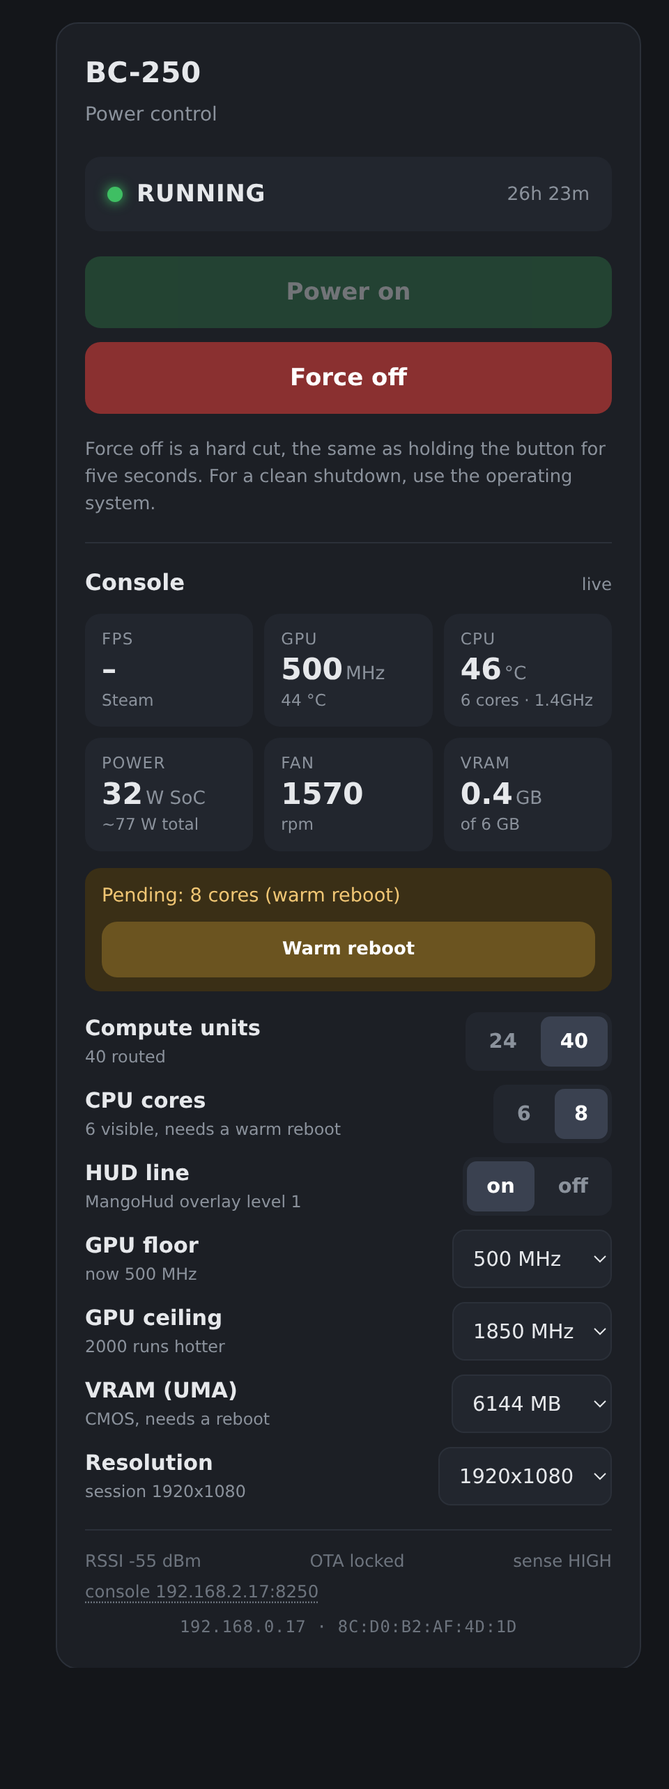
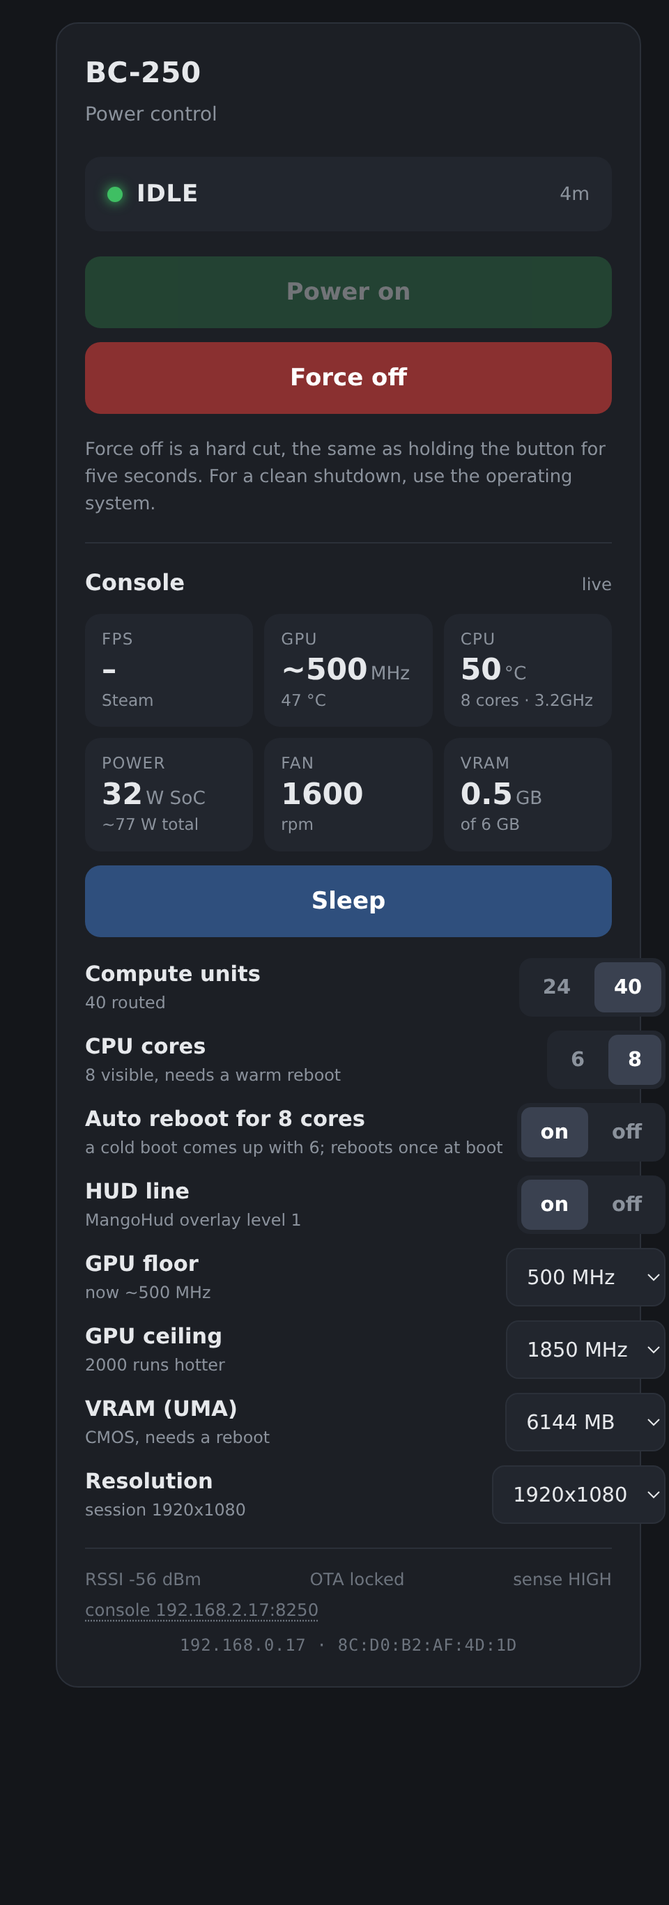
Sleep/wake from the ESP32 page, RUNNING/IDLE/SLEEP status, auto warm reboot for 8 cores
bc250-tune 1.1.0: CORES_AUTO_REBOOT (set cores-auto-reboot on|off). The SMU core mask does not
survive a power-off, so a cold boot with CORES=8 always came up with 6 cores until someone warm-
rebooted. With the option on, apply --boot does that reboot itself, once: a persistent stamp in
/var/lib/bc250-tune blocks a second attempt for 5 minutes, so a board that never enumerates the
cores cannot loop. Reported in status --json as cores.auto_reboot; toggle in the Decky plugin.

Sleep plugin: root-only control socket /run/bc250-sleep/ctl.sock (one line: sleep|wake|status,
one JSON line back). bc250-api 1.1.0 adds POST /api/sleep and /api/wake on top of it, plus
game_running (the reaper SteamLaunch process, independent of gamescope focus) and sleep.since.

ESP32 page: once the console answers, the status line becomes RUNNING (game running), IDLE or
SLEEP (blue dot) instead of the ESP32's bare RUNNING; a Sleep/Wake button under the tiles drives
the fake sleep; the auto-reboot switch joins the tune options. Docs and screenshot updated.

diff --git a/decky-bc250-tune/decky-plugin/dist/index.js b/decky-bc250-tune/decky-plugin/dist/index.js
@@ -33,12 +33,12 @@ var DefaultContext = {
 var IconContext = SP_REACT.createContext && /*#__PURE__*/SP_REACT.createContext(DefaultContext);
 
 var _excluded = ["attr", "size", "title"];
-function _objectWithoutProperties(source, excluded) { if (source == null) return {}; var target = _objectWithoutPropertiesLoose(source, excluded); var key, i; if (Object.getOwnPropertySymbols) { var sourceSymbolKeys = Object.getOwnPropertySymbols(source); for (i = 0; i < sourceSymbolKeys.length; i++) { key = sourceSymbolKeys[i]; if (excluded.indexOf(key) >= 0) continue; if (!Object.prototype.propertyIsEnumerable.call(source, key)) continue; target[key] = source[key]; } } return target; }
-function _objectWithoutPropertiesLoose(source, excluded) { if (source == null) return {}; var target = {}; for (var key in source) { if (Object.prototype.hasOwnProperty.call(source, key)) { if (excluded.indexOf(key) >= 0) continue; target[key] = source[key]; } } return target; }
-function _extends() { _extends = Object.assign ? Object.assign.bind() : function (target) { for (var i = 1; i < arguments.length; i++) { var source = arguments[i]; for (var key in source) { if (Object.prototype.hasOwnProperty.call(source, key)) { target[key] = source[key]; } } } return target; }; return _extends.apply(this, arguments); }
+function _objectWithoutProperties(e, t) { if (null == e) return {}; var o, r, i = _objectWithoutPropertiesLoose(e, t); if (Object.getOwnPropertySymbols) { var n = Object.getOwnPropertySymbols(e); for (r = 0; r < n.length; r++) o = n[r], -1 === t.indexOf(o) && {}.propertyIsEnumerable.call(e, o) && (i[o] = e[o]); } return i; }
+function _objectWithoutPropertiesLoose(r, e) { if (null == r) return {}; var t = {}; for (var n in r) if ({}.hasOwnProperty.call(r, n)) { if (-1 !== e.indexOf(n)) continue; t[n] = r[n]; } return t; }
+function _extends() { return _extends = Object.assign ? Object.assign.bind() : function (n) { for (var e = 1; e < arguments.length; e++) { var t = arguments[e]; for (var r in t) ({}).hasOwnProperty.call(t, r) && (n[r] = t[r]); } return n; }, _extends.apply(null, arguments); }
 function ownKeys(e, r) { var t = Object.keys(e); if (Object.getOwnPropertySymbols) { var o = Object.getOwnPropertySymbols(e); r && (o = o.filter(function (r) { return Object.getOwnPropertyDescriptor(e, r).enumerable; })), t.push.apply(t, o); } return t; }
 function _objectSpread(e) { for (var r = 1; r < arguments.length; r++) { var t = null != arguments[r] ? arguments[r] : {}; r % 2 ? ownKeys(Object(t), true).forEach(function (r) { _defineProperty(e, r, t[r]); }) : Object.getOwnPropertyDescriptors ? Object.defineProperties(e, Object.getOwnPropertyDescriptors(t)) : ownKeys(Object(t)).forEach(function (r) { Object.defineProperty(e, r, Object.getOwnPropertyDescriptor(t, r)); }); } return e; }
-function _defineProperty(obj, key, value) { key = _toPropertyKey(key); if (key in obj) { Object.defineProperty(obj, key, { value: value, enumerable: true, configurable: true, writable: true }); } else { obj[key] = value; } return obj; }
+function _defineProperty(e, r, t) { return (r = _toPropertyKey(r)) in e ? Object.defineProperty(e, r, { value: t, enumerable: true, configurable: true, writable: true }) : e[r] = t, e; }
 function _toPropertyKey(t) { var i = _toPrimitive(t, "string"); return "symbol" == typeof i ? i : i + ""; }
 function _toPrimitive(t, r) { if ("object" != typeof t || !t) return t; var e = t[Symbol.toPrimitive]; if (void 0 !== e) { var i = e.call(t, r); if ("object" != typeof i) return i; throw new TypeError("@@toPrimitive must return a primitive value."); } return ("string" === r ? String : Number)(t); }
 function Tree2Element(tree) {
@@ -53,11 +53,9 @@ function GenIcon(data) {
 }
 function IconBase(props) {
   var elem = conf => {
-    var {
-        attr,
-        size,
-        title
-      } = props,
+    var attr = props.attr,
+      size = props.size,
+      title = props.title,
       svgProps = _objectWithoutProperties(props, _excluded);
     var computedSize = size || conf.size || "1em";
     var className;
@@ -150,7 +148,7 @@ function Content() {
         pending.push("restart gaming session (resolution)");
     if (st.pending.cold_boot)
         pending.push("cold boot (power off) to return to 6 cores");
-    return (SP_JSX.jsxs(SP_JSX.Fragment, { children: [SP_JSX.jsxs(DFL.PanelSection, { title: "Live", children: [SP_JSX.jsx(DFL.PanelSectionRow, { children: SP_JSX.jsxs(DFL.Field, { label: "GPU", focusable: true, children: [st.gpu.cur_mhz_estimated ? "~" : "", st.gpu.cur_mhz, " MHz \u00B7 ", st.gpu.temp, "\u00B0C \u00B7 ", st.cu.live, " CU"] }) }), SP_JSX.jsx(DFL.PanelSectionRow, { children: SP_JSX.jsxs(DFL.Field, { label: "CPU", focusable: true, children: [st.cores.visible, " cores \u00B7 ", st.power.cpu_temp, "\u00B0C"] }) }), SP_JSX.jsx(DFL.PanelSectionRow, { children: SP_JSX.jsxs(DFL.Field, { label: "Power", focusable: true, children: ["SoC ", st.power.soc_w, " W \u00B7 total ~", st.power.total_w, " W"] }) }), SP_JSX.jsx(DFL.PanelSectionRow, { children: SP_JSX.jsxs(DFL.Field, { label: "VRAM", focusable: true, children: [st.uma.live_mb, " MB", st.res.session ? ` · ${st.res.session}` : ""] }) }), pending.map((p) => (SP_JSX.jsx(DFL.PanelSectionRow, { children: SP_JSX.jsx(DFL.Field, { label: "Pending", focusable: true, children: p }) }, p)))] }), SP_JSX.jsxs(DFL.PanelSection, { title: "GPU", children: [SP_JSX.jsx(DFL.PanelSectionRow, { children: SP_JSX.jsx(DFL.ToggleField, { label: "40 compute units", description: "Route all WGPs (live). +~30 W, ~+5 % in games, 1.6x compute", checked: st.cu.config === 40, disabled: busy, onChange: (v) => apply("cu", v ? "40" : "24") }) }), SP_JSX.jsx(DFL.PanelSectionRow, { children: SP_JSX.jsx(DFL.DropdownItem, { label: "Max clock", description: "Governor ceiling (live)", rgOptions: [opt(1500, "1500 MHz"), opt(1700, "1700 MHz"), opt(1850, "1850 MHz (default)"), opt(2000, "2000 MHz (hot)")], selectedOption: st.gpu.config_max, disabled: busy, onChange: (o) => apply("gpu-max", String(o.data)) }) }), SP_JSX.jsx(DFL.PanelSectionRow, { children: SP_JSX.jsx(DFL.DropdownItem, { label: "Idle clock", description: "Governor floor (live). 500 saves ~10 W at idle", rgOptions: [opt(500, "500 MHz"), opt(1000, "1000 MHz")], selectedOption: st.gpu.config_min, disabled: busy, onChange: (o) => apply("gpu-min", String(o.data)) }) })] }), SP_JSX.jsxs(DFL.PanelSection, { title: "CPU", children: [SP_JSX.jsx(DFL.PanelSectionRow, { children: SP_JSX.jsx(DFL.ToggleField, { label: "8 cores", description: "SMU core unlock. Needs a warm reboot; a cold boot (power off) reverts to 6", checked: st.cores.config === 8, disabled: busy, onChange: (v) => apply("cores", v ? "8" : "6") }) }), SP_JSX.jsx(DFL.PanelSectionRow, { children: SP_JSX.jsx(DFL.ButtonItem, { layout: "below", disabled: busy, onClick: () => runAction("reboot", warmReboot), children: "Warm reboot now" }) })] }), SP_JSX.jsx(DFL.PanelSection, { title: "Memory", children: SP_JSX.jsx(DFL.PanelSectionRow, { children: SP_JSX.jsx(DFL.DropdownItem, { label: "VRAM (UMA split)", description: "Written to CMOS, applies at next reboot. Rest of the 16 GB is system RAM", rgOptions: [512, 1024, 2048, 3072, 4096, 6144, 8192, 10240, 12288].map((m) => opt(m, `${m} MB`)), selectedOption: st.uma.config, disabled: busy, onChange: (o) => apply("uma", String(o.data)) }) }) }), SP_JSX.jsxs(DFL.PanelSection, { title: "Display & HUD", children: [SP_JSX.jsx(DFL.PanelSectionRow, { children: SP_JSX.jsx(DFL.ToggleField, { label: "Custom HUD line", description: "Installs the one-line MangoHud layout as Performance Overlay level 1", checked: st.hud.config === "on", disabled: busy, onChange: (v) => apply("hud", v ? "on" : "off") }) }), SP_JSX.jsx(DFL.PanelSectionRow, { children: SP_JSX.jsx(DFL.DropdownItem, { label: "Gaming Mode resolution", description: "Applies when the gaming session restarts", rgOptions: [opt("1920x1080", "1080p"), opt("2560x1440", "1440p"), opt("3840x2160", "4K"), opt("native", "native")], selectedOption: st.res.config, disabled: busy, onChange: (o) => apply("res", String(o.data)) }) }), SP_JSX.jsx(DFL.PanelSectionRow, { children: SP_JSX.jsx(DFL.ButtonItem, { layout: "below", disabled: busy, onClick: () => runAction("session restart", restartSession), children: "Restart gaming session (closes game)" }) })] })] }));
+    return (SP_JSX.jsxs(SP_JSX.Fragment, { children: [SP_JSX.jsxs(DFL.PanelSection, { title: "Live", children: [SP_JSX.jsx(DFL.PanelSectionRow, { children: SP_JSX.jsxs(DFL.Field, { label: "GPU", focusable: true, children: [st.gpu.cur_mhz_estimated ? "~" : "", st.gpu.cur_mhz, " MHz \u00B7 ", st.gpu.temp, "\u00B0C \u00B7 ", st.cu.live, " CU"] }) }), SP_JSX.jsx(DFL.PanelSectionRow, { children: SP_JSX.jsxs(DFL.Field, { label: "CPU", focusable: true, children: [st.cores.visible, " cores \u00B7 ", st.power.cpu_temp, "\u00B0C"] }) }), SP_JSX.jsx(DFL.PanelSectionRow, { children: SP_JSX.jsxs(DFL.Field, { label: "Power", focusable: true, children: ["SoC ", st.power.soc_w, " W \u00B7 total ~", st.power.total_w, " W"] }) }), SP_JSX.jsx(DFL.PanelSectionRow, { children: SP_JSX.jsxs(DFL.Field, { label: "VRAM", focusable: true, children: [st.uma.live_mb, " MB", st.res.session ? ` · ${st.res.session}` : ""] }) }), pending.map((p) => (SP_JSX.jsx(DFL.PanelSectionRow, { children: SP_JSX.jsx(DFL.Field, { label: "Pending", focusable: true, children: p }) }, p)))] }), SP_JSX.jsxs(DFL.PanelSection, { title: "GPU", children: [SP_JSX.jsx(DFL.PanelSectionRow, { children: SP_JSX.jsx(DFL.ToggleField, { label: "40 compute units", description: "Route all WGPs (live). +~30 W, ~+5 % in games, 1.6x compute", checked: st.cu.config === 40, disabled: busy, onChange: (v) => apply("cu", v ? "40" : "24") }) }), SP_JSX.jsx(DFL.PanelSectionRow, { children: SP_JSX.jsx(DFL.DropdownItem, { label: "Max clock", description: "Governor ceiling (live)", rgOptions: [opt(1500, "1500 MHz"), opt(1700, "1700 MHz"), opt(1850, "1850 MHz (default)"), opt(2000, "2000 MHz (hot)")], selectedOption: st.gpu.config_max, disabled: busy, onChange: (o) => apply("gpu-max", String(o.data)) }) }), SP_JSX.jsx(DFL.PanelSectionRow, { children: SP_JSX.jsx(DFL.DropdownItem, { label: "Idle clock", description: "Governor floor (live). 500 saves ~10 W at idle", rgOptions: [opt(500, "500 MHz"), opt(1000, "1000 MHz")], selectedOption: st.gpu.config_min, disabled: busy, onChange: (o) => apply("gpu-min", String(o.data)) }) })] }), SP_JSX.jsxs(DFL.PanelSection, { title: "CPU", children: [SP_JSX.jsx(DFL.PanelSectionRow, { children: SP_JSX.jsx(DFL.ToggleField, { label: "8 cores", description: "SMU core unlock. Needs a warm reboot; a cold boot (power off) reverts to 6", checked: st.cores.config === 8, disabled: busy, onChange: (v) => apply("cores", v ? "8" : "6") }) }), SP_JSX.jsx(DFL.PanelSectionRow, { children: SP_JSX.jsx(DFL.ToggleField, { label: "Auto warm reboot after power-on", description: "A cold boot always comes up with 6 cores; with this on, the boot service reboots once by itself (adds ~40 s)", checked: st.cores.auto_reboot === "on", disabled: busy, onChange: (v) => apply("cores-auto-reboot", v ? "on" : "off") }) }), SP_JSX.jsx(DFL.PanelSectionRow, { children: SP_JSX.jsx(DFL.ButtonItem, { layout: "below", disabled: busy, onClick: () => runAction("reboot", warmReboot), children: "Warm reboot now" }) })] }), SP_JSX.jsx(DFL.PanelSection, { title: "Memory", children: SP_JSX.jsx(DFL.PanelSectionRow, { children: SP_JSX.jsx(DFL.DropdownItem, { label: "VRAM (UMA split)", description: "Written to CMOS, applies at next reboot. Rest of the 16 GB is system RAM", rgOptions: [512, 1024, 2048, 3072, 4096, 6144, 8192, 10240, 12288].map((m) => opt(m, `${m} MB`)), selectedOption: st.uma.config, disabled: busy, onChange: (o) => apply("uma", String(o.data)) }) }) }), SP_JSX.jsxs(DFL.PanelSection, { title: "Display & HUD", children: [SP_JSX.jsx(DFL.PanelSectionRow, { children: SP_JSX.jsx(DFL.ToggleField, { label: "Custom HUD line", description: "Installs the one-line MangoHud layout as Performance Overlay level 1", checked: st.hud.config === "on", disabled: busy, onChange: (v) => apply("hud", v ? "on" : "off") }) }), SP_JSX.jsx(DFL.PanelSectionRow, { children: SP_JSX.jsx(DFL.DropdownItem, { label: "Gaming Mode resolution", description: "Applies when the gaming session restarts", rgOptions: [opt("1920x1080", "1080p"), opt("2560x1440", "1440p"), opt("3840x2160", "4K"), opt("native", "native")], selectedOption: st.res.config, disabled: busy, onChange: (o) => apply("res", String(o.data)) }) }), SP_JSX.jsx(DFL.PanelSectionRow, { children: SP_JSX.jsx(DFL.ButtonItem, { layout: "below", disabled: busy, onClick: () => runAction("session restart", restartSession), children: "Restart gaming session (closes game)" }) })] })] }));
 }
 var index = definePlugin(() => ({
     name: "BC-250 Tune",

diff --git a/decky-bc250-tune/decky-plugin/src/index.tsx b/decky-bc250-tune/decky-plugin/src/index.tsx
@@ -18,7 +18,7 @@ type Status = {
   uma: { config: number; cmos: number | null; live_mb: number };
   gpu: { min: number; max: number; config_min: number; config_max: number; cur_mhz: number; cur_mhz_estimated?: boolean; temp: number };
   cu: { config: number; live: number };
-  cores: { config: number; mask: number | null; visible: number };
+  cores: { config: number; mask: number | null; visible: number; auto_reboot?: string };
   hud: { config: string; installed: string };
   res: { config: string; session: string };
   power: { soc_w: number; total_w: number; cpu_temp: number };
@@ -150,6 +150,15 @@ function Content() {
             checked={st.cores.config === 8}
             disabled={busy}
             onChange={(v) => apply("cores", v ? "8" : "6")}
+          />
+        </PanelSectionRow>
+        <PanelSectionRow>
+          <ToggleField
+            label="Auto warm reboot after power-on"
+            description="A cold boot always comes up with 6 cores; with this on, the boot service reboots once by itself (adds ~40 s)"
+            checked={st.cores.auto_reboot === "on"}
+            disabled={busy}
+            onChange={(v) => apply("cores-auto-reboot", v ? "on" : "off")}
           />
         </PanelSectionRow>
         <PanelSectionRow>

diff --git a/decky-bc250-sleep/main.py b/decky-bc250-sleep/main.py
@@ -23,6 +23,7 @@ import decky
 
 STATE_DIR = "/run/bc250-sleep"
 STATE_FILE = os.path.join(STATE_DIR, "state.json")
+CTL_SOCK = os.path.join(STATE_DIR, "ctl.sock")  # root-only control socket, used by bc250-api
 SETTINGS_FILE = os.path.join(decky.DECKY_PLUGIN_SETTINGS_DIR, "settings.json")
 SLEEP_UNITS = ["sleep.target", "suspend.target", "hybrid-sleep.target", "hibernate.target", "suspend-then-hibernate.target"]
 DEFAULTS = {"pause_game": True, "mute_audio": True, "wake_on_input": True, "hook_steam_sleep": True, "quiet_fans": True}
@@ -293,6 +294,7 @@ def save_state(st):
 class Plugin:
     watcher_task = None
     fan_task = None
+    ctl_server = None
 
     # ------------------------------------------------------------------ status / settings
     async def status(self):
@@ -549,15 +551,60 @@ class Plugin:
             for fd in list(fds):
                 drop(fd)
 
+    # ------------------------------------------------------------------ control socket
+    async def _ctl(self, reader, writer):
+        """One line in ("sleep", "wake" or "status"), one JSON line out. Lets bc250-api (and anything
+        else running as root on the box) trigger the same sleep/wake as the Quick Access buttons."""
+        try:
+            line = (await asyncio.wait_for(reader.readline(), 5)).decode(errors="replace").strip().lower()
+            if line == "sleep":
+                r = await self.sleep()
+            elif line == "wake":
+                r = await self.wake()
+            elif line == "status":
+                r = await self.status()
+            else:
+                r = {"ok": False, "output": f"unknown command {line!r}"}
+        except Exception as e:  # noqa: BLE001
+            r = {"ok": False, "output": str(e)}
+        try:
+            writer.write((json.dumps(r) + "\n").encode())
+            await writer.drain()
+        except OSError:
+            pass
+        finally:
+            writer.close()
+
+    async def _ctl_start(self):
+        os.makedirs(STATE_DIR, exist_ok=True)
+        try:
+            os.remove(CTL_SOCK)
+        except OSError:
+            pass
+        try:
+            self.ctl_server = await asyncio.start_unix_server(self._ctl, path=CTL_SOCK)
+            os.chmod(CTL_SOCK, 0o600)
+            decky.logger.info("control socket at %s", CTL_SOCK)
+        except Exception as e:  # noqa: BLE001
+            decky.logger.warning("control socket failed: %s", e)
+
     # ------------------------------------------------------------------ lifecycle
     async def _main(self):
         decky.logger.info("BC-250 Sleep backend loaded")
         self.apply_sleep_guard(load_settings()["hook_steam_sleep"])
+        await self._ctl_start()
         # If the loader restarted while asleep, do not leave the game frozen forever.
         if load_state() is not None:
             decky.logger.info("stale sleep state found, waking")
             await self.wake()
 
     async def _unload(self):
+        if self.ctl_server:
+            self.ctl_server.close()
+            self.ctl_server = None
+        try:
+            os.remove(CTL_SOCK)
+        except OSError:
+            pass
         if load_state() is not None:
             await self.wake()

diff --git a/README.md b/README.md
@@ -258,6 +258,7 @@ from voltage, see §4.2), 8 cores at 51 °C, 35 W package power, 6144 MB VRAM at
 | `GPU_MIN` / `GPU_MAX` | The governor's frequency range. 500 MHz floor saves ~10 W at idle; 1850 MHz is the image default ceiling. | live |
 | `CU` 24 / 40 | Routes all 40 compute units through `bc250-cu-live-manager`. Compute ~1.6x, games only a few % (fill-rate bound), ~+30 W. | live, re-applied at boot |
 | `CORES` 6 / 8 | Enables the two dormant cores with an SMU message (technique from [GabriWar/bc250-core-cu-unlock](https://github.com/GabriWar/bc250-core-cu-unlock)). Nothing is flashed. | warm reboot; a cold boot reverts |
+| `CORES_AUTO_REBOOT` | The core mask does not survive a power-off, so a cold boot with `CORES=8` comes up with 6 cores until a warm reboot. `on` makes the boot service do that reboot itself, once (a persistent stamp rules out a loop). Adds ~40 s to a power-on. | next cold boot |
 | `HUD` | One-line MangoHud layout as Performance Overlay level 1 (files in [`decky-bc250-tune/mangohud/`](decky-bc250-tune/mangohud/)) | next game launch |
 | `RES` | Gaming Mode output resolution (e.g. 1080p on a 4K panel) | gaming session restart |
 
@@ -418,6 +419,7 @@ GET  /api/tune[?refresh=1]       bc250-tune status --json (cached 30 s)
 POST /api/tune/set               {"key":"cu","value":"40"}  → bc250-tune set cu 40
 POST /api/tune/reboot            warm reboot (8 cores)
 POST /api/tune/restart-session   gaming session restart (resolution)
+POST /api/sleep, /api/wake       fake sleep / wake (through the BC-250 Sleep plugin's control socket)
 ```
 
 ```bash
@@ -644,7 +646,10 @@ router's DHCP reservation. It polls `/rest/status` every two seconds while the t
 
 While the state is `RUNNING` the page grows a **Console** panel, fetched by the phone's browser
 straight from `bc250-api` on the BC-250 (§4.6) every five seconds; the ESP32 only hands the browser
-the address (`console` in `/rest/status`, from `CONSOLE_API` in the sketch). Tiles show FPS and the
+the address (`console` in `/rest/status`, from `CONSOLE_API` in the sketch). Once the console
+answers, the status line refines the ESP32's `RUNNING` into **RUNNING** (a game is running),
+**IDLE** (on, no game) or **SLEEP** (the fake sleep of §4.5 holds it, blue dot), and a **Sleep** /
+**Wake** button under the tiles drives that fake sleep from the phone. Tiles show FPS and the
 running game, GPU clock and temperature, CPU temperature with cores and clock, SoC and estimated
 total power, fan rpm and VRAM use. Below them are the `bc250-tune` switches (compute units, cores,
 HUD, GPU floor and ceiling, VRAM split, resolution): a tap runs `bc250-tune set` on the console, and

diff --git a/decky-bc250-tune/README.md b/decky-bc250-tune/README.md
@@ -27,6 +27,7 @@ bc250-tune 1.0.0 — config: /etc/bc250-tune/config   user: deck
 | `GPU_MIN` / `GPU_MAX` | MHz | `[frequency-range]` of the image's `cyan-skillfish-governor-smu`. 500 MHz floor saves ~10 W at idle; 1850 is the image default ceiling; 2000 is hotter (~140 W). | live |
 | `CU` | `24` / `40` | Routes all 20 WGPs (40 CUs) through the image's `bc250-cu-live-manager`, or back to the stock 24. Compute scales ~1.6x; games gain only a few % (they are fill-rate bound). ~+30 W. | live, re-applied at boot |
 | `CORES` | `6` / `8` | Enables the two dormant Zen 2 cores by sending SMU message `0x98` (core-mask register `0x0115A870`), the technique from [GabriWar/bc250-core-cu-unlock](https://github.com/GabriWar/bc250-core-cu-unlock). Nothing is flashed. | **warm reboot** to appear; a **cold boot** (power removed) always reverts to 6 |
+| `CORES_AUTO_REBOOT` | `on` / `off` | The SMU core mask does not survive a power-off, so a cold boot with `CORES=8` always comes up with 6 cores until a warm reboot. With `on`, the boot service does that reboot itself, once (a persistent stamp prevents a loop). Adds ~40 s to a power-on. | next cold boot |
 | `HUD` | `on` / `off` | Installs a one-line MangoHud layout as **Performance Overlay level 1** in Gaming Mode (and as the Desktop-Mode `MangoHud.conf`). | next game launch |
 | `RES` | `WxH` or `native` | Gaming Mode (gamescope) output resolution via `~/.config/environment.d/`. Forces the Steam UI and games to that mode, e.g. 1080p on a 4K panel. | gaming session restart |
 
@@ -84,7 +85,7 @@ LAN. The ESP32 power page uses it for its Console panel.
 
 ```bash
 sudo bc250-tune menu                       # whiptail TUI (works over ssh or in a Desktop-Mode terminal)
-sudo bc250-tune set cu 40                  # keys: uma gpu-min gpu-max cu cores hud res  (applies immediately)
+sudo bc250-tune set cu 40                  # keys: uma gpu-min gpu-max cu cores cores-auto-reboot hud res
 sudo bc250-tune set cores 8 uma 8192       # several at once; prints what still needs a reboot
 sudo bc250-tune apply                      # re-apply /etc/bc250-tune/config (idempotent)
 sudo bc250-tune status [--json]            # everything, incl. pending reboot / session restart

diff --git a/bc250-api/README.md b/bc250-api/README.md
@@ -11,6 +11,8 @@ GET  /api/tune[?refresh=1]       `bc250-tune status --json`, cached 30 s
 POST /api/tune/set               {"key":"cu","value":"40"}  -> `bc250-tune set cu 40`
 POST /api/tune/reboot            -> `bc250-tune reboot`          (warm reboot, for 8 cores)
 POST /api/tune/restart-session   -> `bc250-tune restart-session` (for a resolution change)
+POST /api/sleep                  fake sleep through the BC-250 Sleep plugin (its control socket)
+POST /api/wake                   wake from it
 ```
 
 Port 8250, JSON, CORS open (`Access-Control-Allow-Origin: *`) so a page served by another host
@@ -27,7 +29,8 @@ switches need it.
   "power": {"soc_w": 31.8, "total_w": 77, "total_offset_w": 45},
   "fan":   {"rpm": 1595},
   "mem":   {"used_mb": 2601, "total_mb": 9650},
-  "uptime_s": 3436, "asleep": false, "ts": 1789491944.1,
+  "uptime_s": 3436, "asleep": false, "sleep": {"asleep": false, "since": null},
+  "game_running": {"appid": "251470", "name": "TowerFall Ascension"}, "ts": 1789491944.1,
   "tune":  { "...": "the bc250-tune status --json object: uma, gpu, cu, cores, hud, res, pending" }
 }
 ```
@@ -43,7 +46,11 @@ switches need it.
 * **power.total_w** is `soc_w + TOTAL_OFFSET_W` from `/etc/bc250-tune/config`, the same estimate
   the HUD prints.
 * **fan.rpm** is the first spinning tach of the nct6687 driver (the "Pump Fan" header on this board).
-* **asleep** is true while the BC-250 Sleep plugin holds the game frozen.
+* **game_running** is the game Steam has launched (its `reaper SteamLaunch AppId=N` process),
+  regardless of what gamescope has in focus; `focus` can flip to `steam` while the overlay is open.
+* **asleep** / **sleep** report the BC-250 Sleep plugin's fake sleep (`since` is the epoch it started).
+  `POST /api/sleep` and `/api/wake` go through the plugin's control socket
+  (`/run/bc250-sleep/ctl.sock`) and answer 503 when the plugin is not loaded.
 * **tune** is `bc250-tune status --json`, refreshed every 30 s and right after every `set`. It is
   `null` when `bc250-tune` is not installed; the POST endpoints answer 503 then.
 

diff --git a/decky-bc250-sleep/README.md b/decky-bc250-sleep/README.md
@@ -55,3 +55,14 @@ pnpm i && pnpm run build      # dist/index.js (prebuilt copy is committed)
 ```
 
 `main.py` needs no build. The plugin runs as root (`"flags": ["root"]`).
+
+## Control socket
+
+While loaded, the backend listens on `/run/bc250-sleep/ctl.sock` (root only). Send one line,
+`sleep`, `wake` or `status`, and read one JSON line back. This is what
+[`bc250-api`](../bc250-api/) uses for its `POST /api/sleep` and `/api/wake`, so the ESP32 power
+page can put the console to sleep and wake it from a phone:
+
+```bash
+printf 'sleep\n' | sudo socat - UNIX-CONNECT:/run/bc250-sleep/ctl.sock
+```
